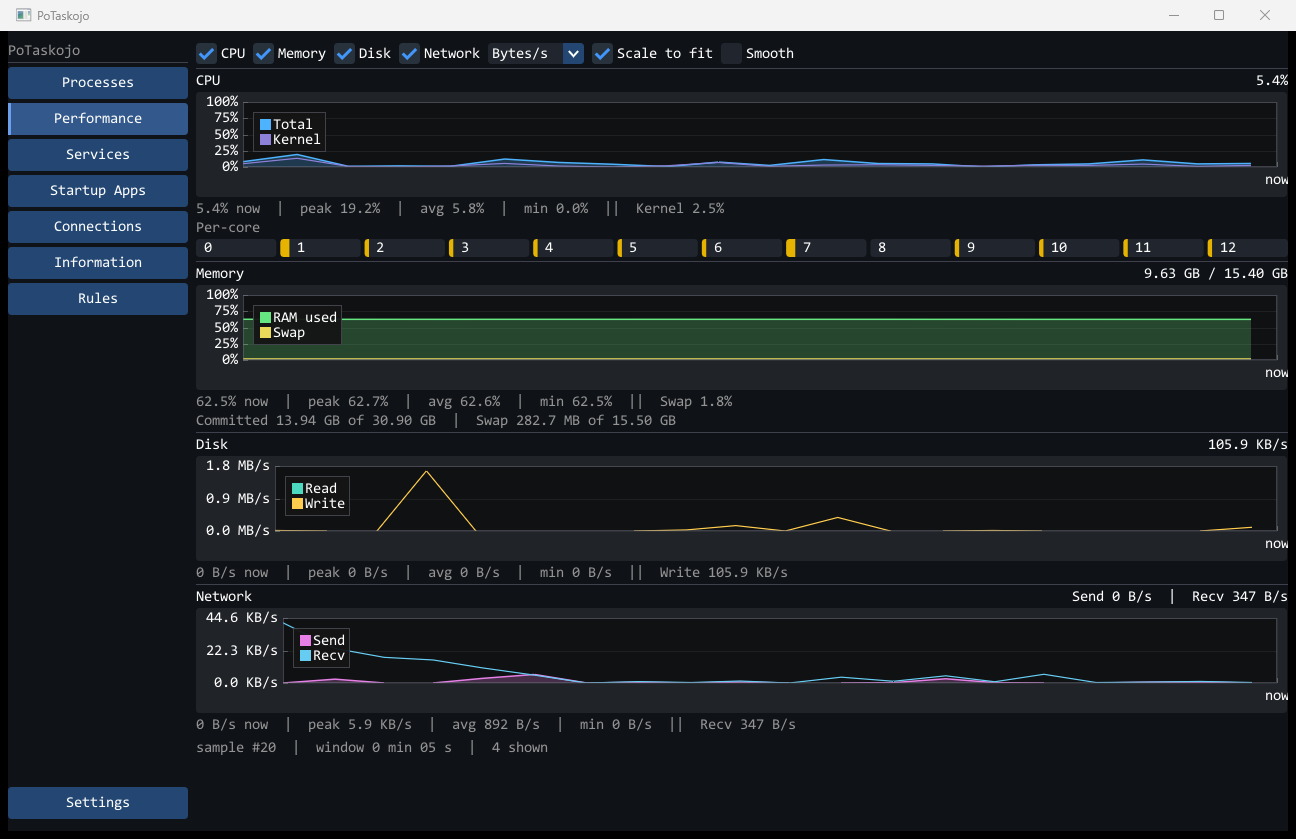
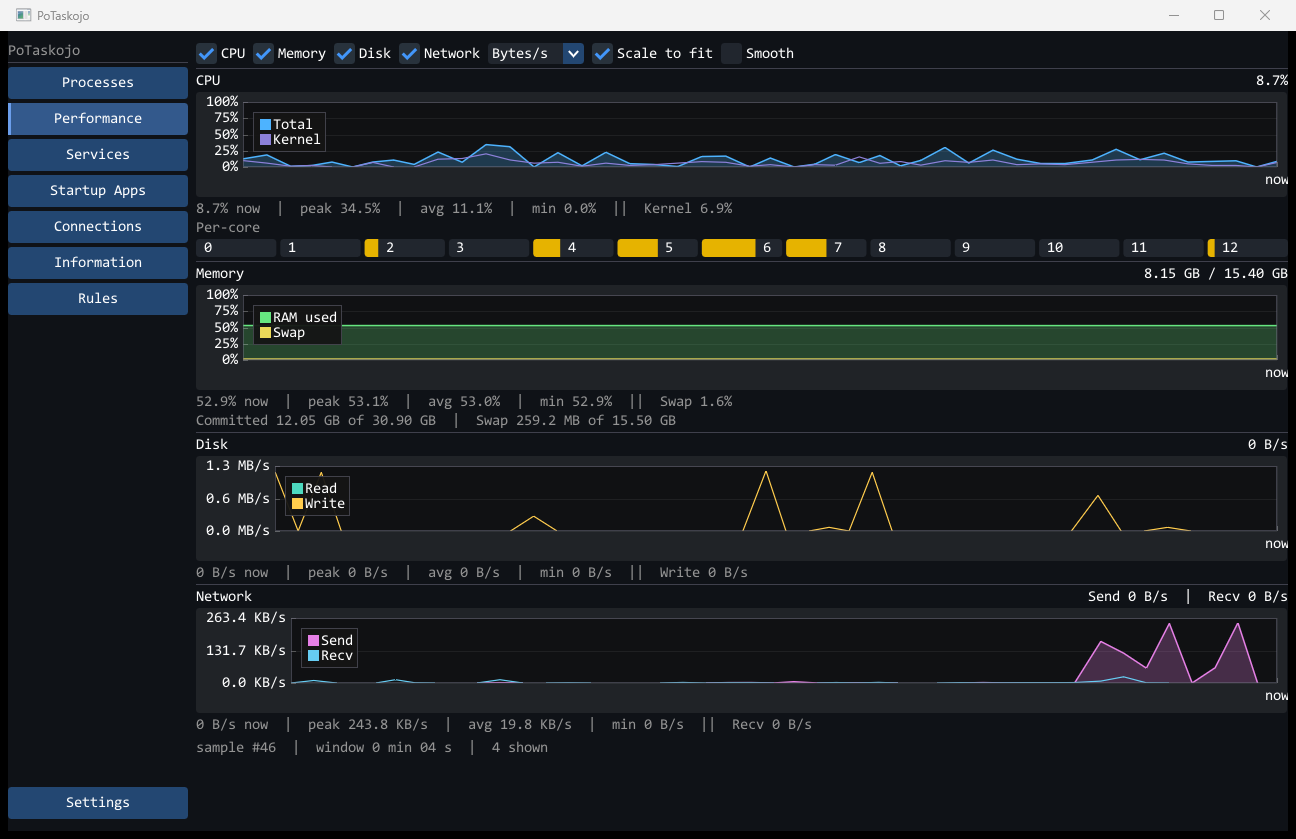
Anchor the charts to their data instead of the clock
The right-hand edge of the axis was pinned to the wall clock while the data
behind it only arrives once per interval. Between two samples the clock keeps
moving and the newest point does not, so empty space opened at the right edge
and snapped shut again at every sample - a sawtooth. On a chart that had just
started, when the whole span was a couple of seconds, that space was a large
fraction of the width, which is what made it read as a hole at the beginning of
the graph. The same clock inside the formula slid the axis and every point on
it every frame, even when nothing new had been measured.

Positions are now taken relative to the newest sample in the series, so the
newest point sits exactly on the right edge and the axis only changes when a
sample actually arrives. The parameter that carried the wall-clock time is gone
rather than repurposed: the reference comes from the data, which is the only
thing the data should be measured against. The status line reports the span
plotted rather than the span since the oldest sample, so it stops ticking
between samples as well.

The polling interval drops from 250 ms to 100 ms, but not on trust. The
collector measures what a sample costs over its first twenty - skipping the
first, which carries PDH's one-time expansion of the wildcard counters - and
backs off from the planned interval unless four of them would fit. On this
machine a sample costs 6 ms on average and 16 at worst, so the plan survived:
[…]

diff --git a/src/ui/performance_tab.cpp b/src/ui/performance_tab.cpp
@@ -171,8 +171,7 @@ void smooth_inplace(std::vector<float>& v, float alpha) {
 void render_chart(const char* id, const char* title,
                   const Series& s1, const char* label1, const ImVec4& col1,
                   const Series* s2, const char* label2, const ImVec4& col2,
-                  bool percent, bool rate, const char* headline,
-                  long long now_ms) {
+                  bool percent, bool rate, const char* headline) {
   const int n = static_cast<int>(s1.v.size());
   if (n < 2) {
     ImGui::TextDisabled("%s: collecting...", title);
@@ -188,17 +187,20 @@ void render_chart(const char* id, const char* title,
     ImGui::Text("%s", headline);
   }
 
-  // X is the real age of each sample, so the axis stays honest if the
-  // collector drifts, pauses, or the machine wakes from sleep.
+  // The axis is anchored to the newest sample, not to the wall clock. Data
+  // arrives once per interval; anything else makes a gap open at the right
+  // edge until the next sample and then snap shut, and slides the whole axis
+  // every frame in between.
+  const long long ref_ms = s1.v.back().ms;
   const double span_sec =
-      static_cast<double>(now_ms - s1.v.front().ms) / 1000.0;
+      -chart_time::seconds_from_newest(ref_ms, s1.v.front().ms);
 
   // Data buffers (must outlive EndPlot).
   std::vector<float> xs(n), y1(n);
   std::vector<float> y2;
   for (int i = 0; i < n; ++i) {
     const Sample& s = s1.v[static_cast<size_t>(i)];
-    xs[i] = static_cast<float>(-(now_ms - s.ms)) / 1000.0f;
+    xs[i] = static_cast<float>(chart_time::seconds_from_newest(ref_ms, s.ms));
     y1[i] = static_cast<float>(s.v);
   }
   const bool has2 = s2 && static_cast<int>(s2->v.size()) == n;
@@ -328,15 +330,13 @@ void render_performance_tab() {
     return;
   }
 
-  // One clock for every chart in this frame, so they share the same x mapping.
-  const long long now_ms = static_cast<long long>(GetTickCount64());
   const double disk_total = static_cast<double>(snap->disk.read_bytes_s +
                                                 snap->disk.write_bytes_s);
-  // The status line reports the window in minutes and seconds; computed from
-  // real timestamps it finally means what it says.
+  // The window the status line reports: the span actually plotted, so it stops
+  // ticking between samples and matches what the axis shows.
   int span_s = 0;
-  if (!g_cpu.v.empty())
-    span_s = static_cast<int>((now_ms - g_cpu.v.front().ms) / 1000);
+  if (g_cpu.v.size() > 1)
+    span_s = static_cast<int>((g_cpu.v.back().ms - g_cpu.v.front().ms) / 1000);
 
   auto& o = opts();
 
@@ -405,8 +405,7 @@ void render_performance_tab() {
   if (o.show_cpu) {
     render_chart("cpu", "CPU", g_cpu, "Total", kCpu, &g_cpu_kern, "Kernel",
                  kKern, true, false,
-                 core::format::format_pct(snap->cpu.total_percent).c_str(),
-                 now_ms);
+                 core::format::format_pct(snap->cpu.total_percent).c_str());
 
     // Per-core bars.
     if (!snap->cpu.per_core.empty()) {
@@ -432,7 +431,7 @@ void render_performance_tab() {
         core::format::format_bytes(snap->memory.used_bytes) + " / " +
         core::format::format_bytes(snap->memory.total_bytes);
     render_chart("mem", "Memory", g_mem, "RAM used", kMem, &g_swap, "Swap",
-                 kSwap, true, false, head.c_str(), now_ms);
+                 kSwap, true, false, head.c_str());
     ImGui::TextDisabled(
         "Committed %s of %s  |  Swap %s of %s",
         core::format::format_bytes(snap->memory.committed_bytes).c_str(),
@@ -445,7 +444,7 @@ void render_performance_tab() {
   if (o.show_disk) {
     render_chart("disk", "Disk", g_disk_r, "Read", kRead, &g_disk_w, "Write",
                  kWrite, false, true,
-                 core::format::format_rate(disk_total, false).c_str(), now_ms);
+                 core::format::format_rate(disk_total, false).c_str());
     ImGui::Separator();
   }
 
@@ -455,7 +454,7 @@ void render_performance_tab() {
         "  |  Recv " +
         core::format::format_rate(static_cast<double>(snap->net.bytes_recv_s), o.bits);
     render_chart("net", "Network", g_net_s, "Send", kSend, &g_net_r, "Recv",
-                 kRecv, false, true, head.c_str(), now_ms);
+                 kRecv, false, true, head.c_str());
   }
 
   ImGui::Spacing();

diff --git a/src/collectors/performance.cpp b/src/collectors/performance.cpp
@@ -171,6 +171,21 @@ void PerfCollector::thread_main() {
   // Give PDH one extra interval so the first CPU% delta is meaningful.
   Sleep(interval_ms_);
 
+  // What a sample costs decides whether the planned interval is realistic: a
+  // collector that spends 90 ms of every 100 is not polling at 100 ms, it is
+  // saturating a core. The first sample is left out because it carries PDH's
+  // first expansion of the wildcard counters and is not representative.
+  constexpr uint32_t kProbeSkip = 1;
+  constexpr uint32_t kProbeSamples = 20;
+  constexpr uint64_t kCostMultiplier = 4;
+  uint64_t cost_total = 0;
+  uint64_t cost_max = 0;
+  uint64_t first_ms = 0;
+  uint64_t last_ms = 0;
+  uint32_t seen = 0;
+  uint32_t taken = 0;
+  bool probed = false;
+
   while (running_) {
     const auto t0 = GetTickCount64();
     auto snap = std::make_shared<PerfSnapshot>();
@@ -181,6 +196,45 @@ void PerfCollector::thread_main() {
       latest_ = std::move(snap);
     }
     const auto elapsed = GetTickCount64() - t0;
+
+    if (!probed) {
+      ++seen;
+      if (seen > kProbeSkip) {
+        if (first_ms == 0) first_ms = t0;
+        last_ms = t0;
+        cost_total += elapsed;
+        if (elapsed > cost_max) cost_max = elapsed;
+        ++taken;
+        if (taken >= kProbeSamples) {
+          probed = true;
+          const uint64_t mean = cost_total / kProbeSamples;
+          const uint64_t needed = kCostMultiplier * mean;
+          // The cadence actually achieved, from the timestamps rather than
+          // from the configured figure: this is the number that says whether
+          // the setting survived contact with the scheduler.
+          const uint64_t period =
+              (taken > 1 && last_ms > first_ms) ? (last_ms - first_ms) / (taken - 1)
+                                                : 0;
+          const std::string cadence =
+              "measured " + std::to_string(period) + " ms between samples";
+          if (needed > interval_ms_) {
+            const auto raised = static_cast<uint32_t>(((needed + 9) / 10) * 10);
+            core::log::warn(
+                "perf sample costs " + std::to_string(mean) + " ms on average (" +
+                std::to_string(cost_max) + " max); interval raised from " +
+                std::to_string(interval_ms_) + " to " +
+                std::to_string(raised) + " ms; " + cadence);
+            interval_ms_ = raised;
+          } else {
+            core::log::info(
+                "perf sample costs " + std::to_string(mean) + " ms on average (" +
+                std::to_string(cost_max) + " max); polling every " +
+                std::to_string(interval_ms_) + " ms; " + cadence);
+          }
+        }
+      }
+    }
+
     const auto sleep = elapsed >= interval_ms_ ? 1 : interval_ms_ - elapsed;
     if (!wait_.wait_for(static_cast<uint32_t>(sleep))) break;
   }

diff --git a/tests/test_chart_time.cpp b/tests/test_chart_time.cpp
@@ -16,6 +16,7 @@ using ui::chart_time::compute_time_ticks;
 using ui::chart_time::history_cap;
 using ui::chart_time::inside_window;
 using ui::chart_time::kWindowMs;
+using ui::chart_time::seconds_from_newest;
 
 TEST_CASE(chart_ticks_label_a_full_ten_minute_window) {
   // 599 seconds of history: the spacing that keeps six or fewer labels is
@@ -74,6 +75,21 @@ TEST_CASE(chart_window_is_measured_by_age_not_by_count) {
   CHECK(!inside_window(now, now - kWindowMs - 1));
   // A brand-new sample is obviously inside.
   CHECK(inside_window(now, now));
+}
+
+TEST_CASE(newest_sample_sits_exactly_on_the_right_edge) {
+  // The invariant the axis broke: it was anchored to the wall clock while data
+  // only arrives once per interval, so the newest sample sat up to one interval
+  // short of the right edge and the empty space grew until the next sample
+  // arrived and snapped it shut. On a chart that has just started, that space
+  // was half the width.
+  const long long newest = 9'000'000LL;
+  CHECK_EQ(seconds_from_newest(newest, newest), 0.0);
+  CHECK_EQ(seconds_from_newest(newest, newest - 250), -0.25);
+  CHECK_EQ(seconds_from_newest(newest, newest - 1000), -1.0);
+  // Older samples sit strictly further left, never somewhere else.
+  CHECK(seconds_from_newest(newest, newest - 5000) <
+        seconds_from_newest(newest, newest - 1000));
 }
 
 TEST_CASE(history_cap_always_outruns_the_window) {

diff --git a/src/collectors/performance.h b/src/collectors/performance.h
@@ -49,10 +49,12 @@ struct PerfSnapshot {
   NetworkSample net;
 };
 
-// Polling interval. Four samples a second is what it takes for a spike of a
-// quarter second to land on the chart instead of being averaged out of it, and
-// one sample costs about 10 ms, so the interval has plenty of room.
-inline constexpr uint32_t kSampleIntervalMs = 250;
+// Upper bound on the polling interval, in milliseconds. The collector measures
+// what a sample actually costs early on and backs off from this figure if four
+// of them would not fit into it - see thread_main(). The history cap is derived
+// from this planned figure, which is safe in one direction only: too large a
+// cap costs memory, too small one would silently shorten the window.
+inline constexpr uint32_t kSampleIntervalMs = 100;
 
 class PerfCollector {
  public:

diff --git a/src/ui/chart_time.h b/src/ui/chart_time.h
@@ -34,6 +34,16 @@ inline constexpr long long history_cap(long long window_ms,
   return interval_ms > 0 ? 2 * window_ms / interval_ms : 0;
 }
 
+// X position of a sample, in seconds, relative to the newest one.
+//
+// Relative to the newest sample rather than to the wall clock: pinning the
+// right-hand edge to "now" while data only arrives once per interval leaves a
+// gap that grows until the next sample and then snaps shut, and it moves the
+// whole axis every frame even when nothing new has been measured.
+inline double seconds_from_newest(long long newest_ms, long long sample_ms) {
+  return -static_cast<double>(newest_ms - sample_ms) / 1000.0;
+}
+
 struct TimeTicks {
   std::vector<double> pos;        // axis positions, seconds relative to now
   std::vector<std::string> labels;
